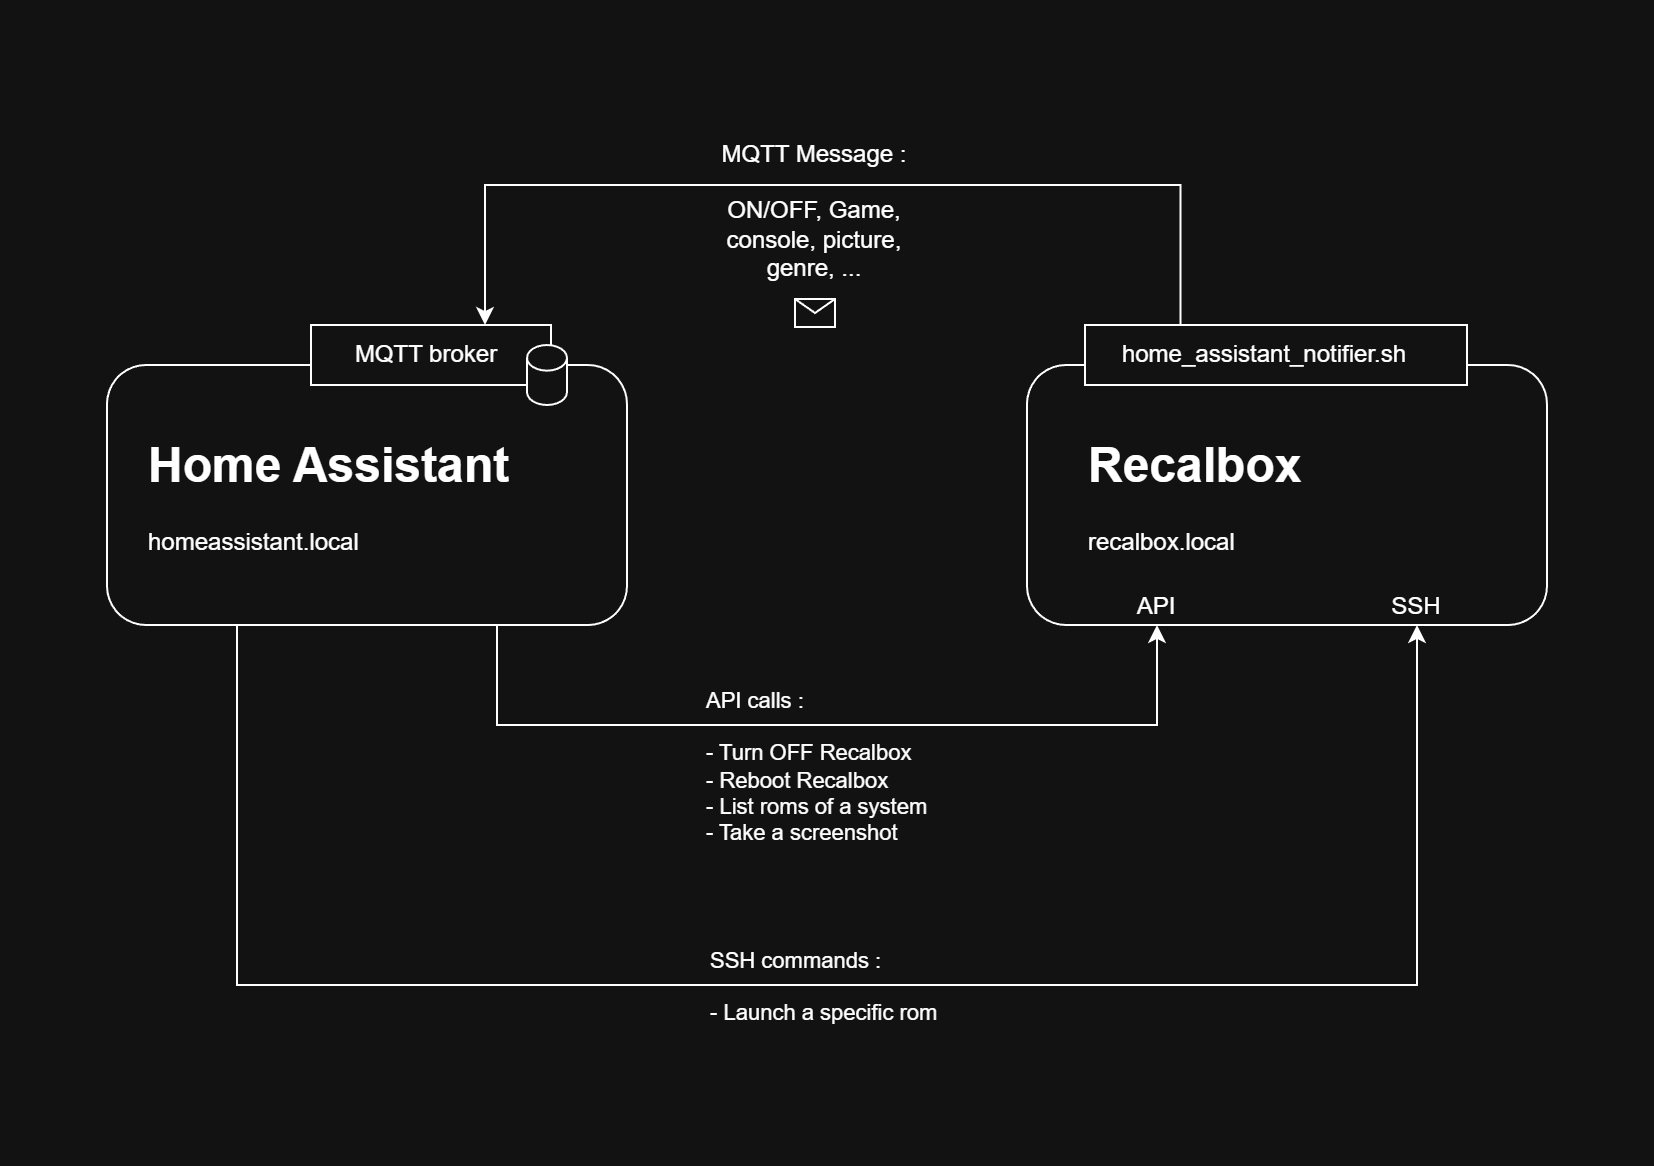
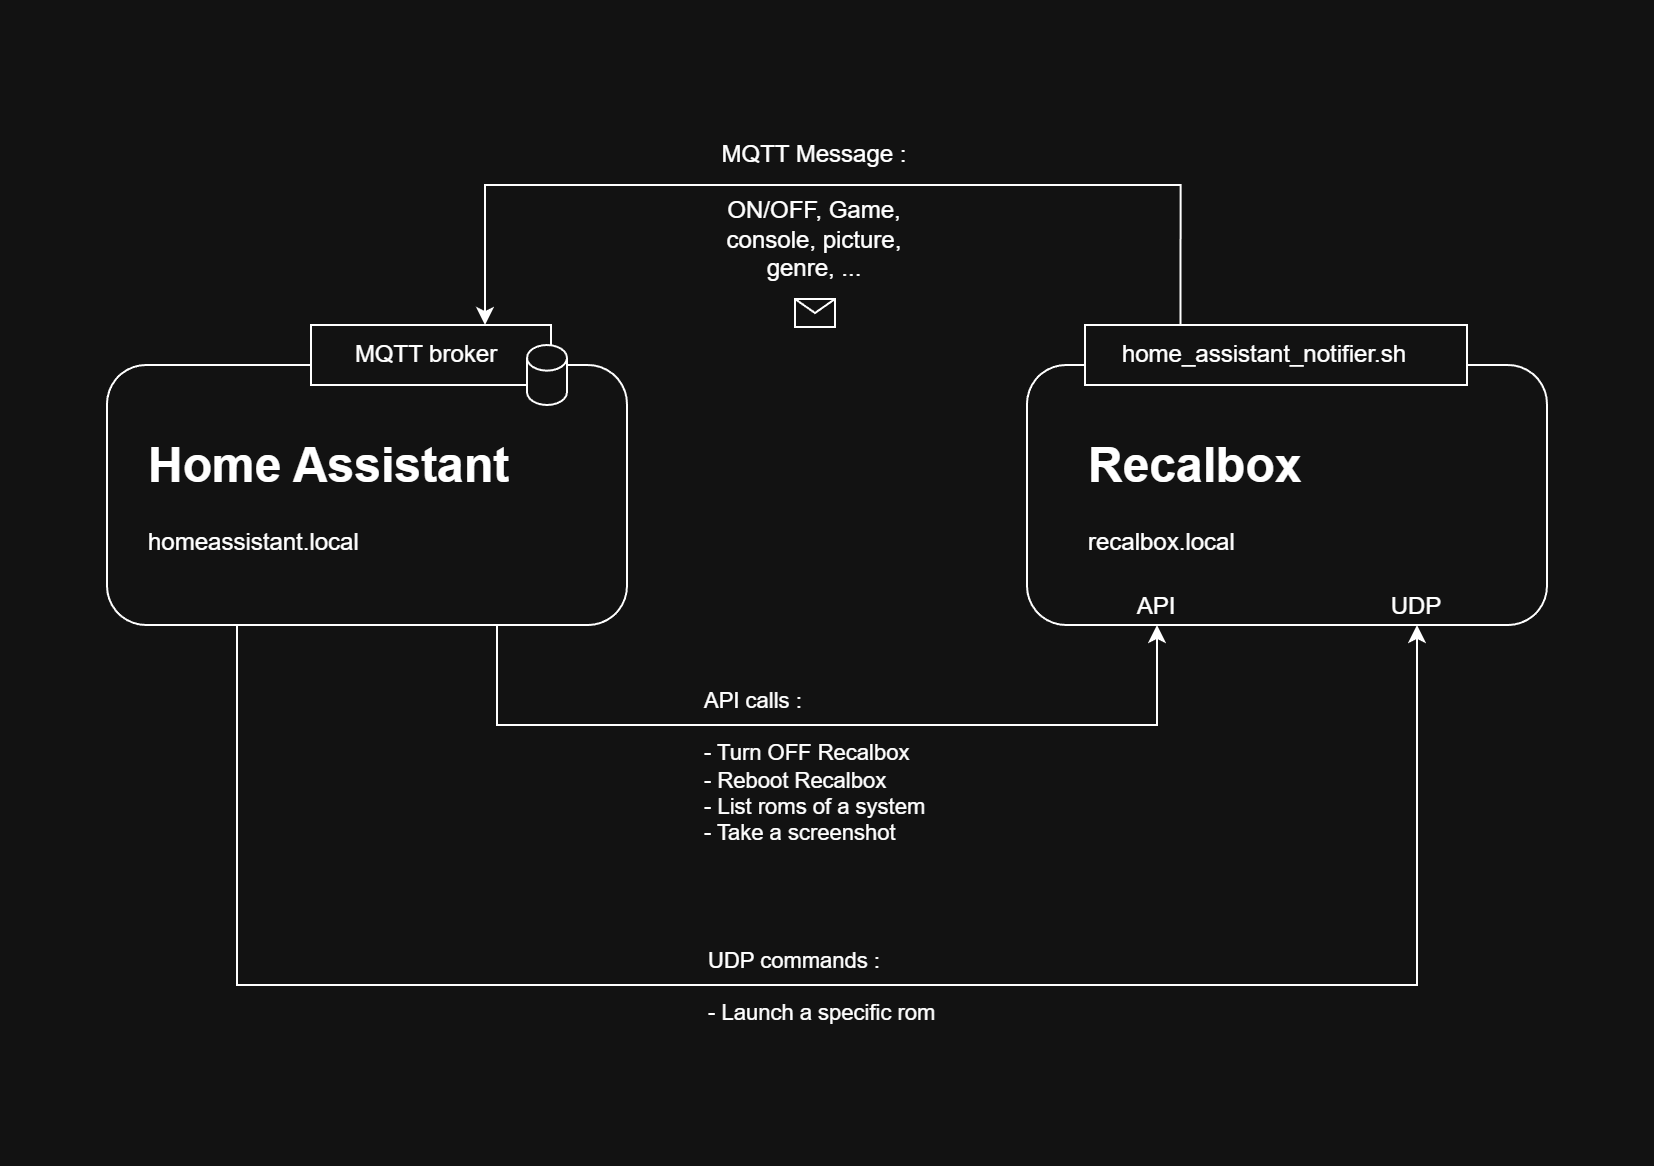
Prepare replacement from SSH to UDP

diff --git a/README.md b/README.md
@@ -88,19 +88,7 @@ Assist integration for voice/text control has also been implemented in order to 
      homeassistant:
          packages: !include_dir_named packages
      ```
- 
-3. **SSH for Home Assistant to access Recalbox**
 
-
-Some Recalbox API are not existing (launch a game, for example). We can still execute some features with scripts over SSH.
-It means that Home Assistant needs access to Recalbox via SSH if you want to access those features.  
-- Enable "Advanced mode" for your user
-- Install "Terminal & SSH" in Home Assistant : enable watchdog and sidebar. Go to settings and import a public key or define a password, and then save and restart the addon.
-- Type "ssh-keygen -t rsa -b 4096", name it "/config/.ssh/recalboxHomeAssistantKey" (create folder /config/.ssh if needed)
-- Your keys will then be sotred in /config/.ssh/recalboxHomeAssistantKey
-- Type "ssh-copy-id -i /config/.ssh/recalboxHomeAssistantKey.pub root@recalbox.local" (default credentials on Recalbox are "root" / "recalboxroot")
-- Verify in the terminal that the SSH connexion is good, without asking you the password anymore : "ssh -i /config/.ssh/recalboxHomeAssistantKey -o StrictHostKeyChecking=no root@recalbox.local"
-- Type "exit"
 
 
 ## Usage 
@@ -163,9 +151,6 @@ Examples :
 
 #### Launch a game
 
-> SSH access is required. 
-> Launch via SSH is NOT WORKING YET !
-
 This requires the `RecalboxLaunchGame` intent in `/config/custom_sentences/<language>/recalbox_intent.yaml`.
 
 Examples :
@@ -182,7 +167,6 @@ Examples :
 > 
 > The search ignores case, and can find roms with words in between your search.
 > Example : Searching for "Pokemon Jaune", can find the rom "Pokemon - Version Jaune - Edition Speciale Pikachu".
-
 
 
 
